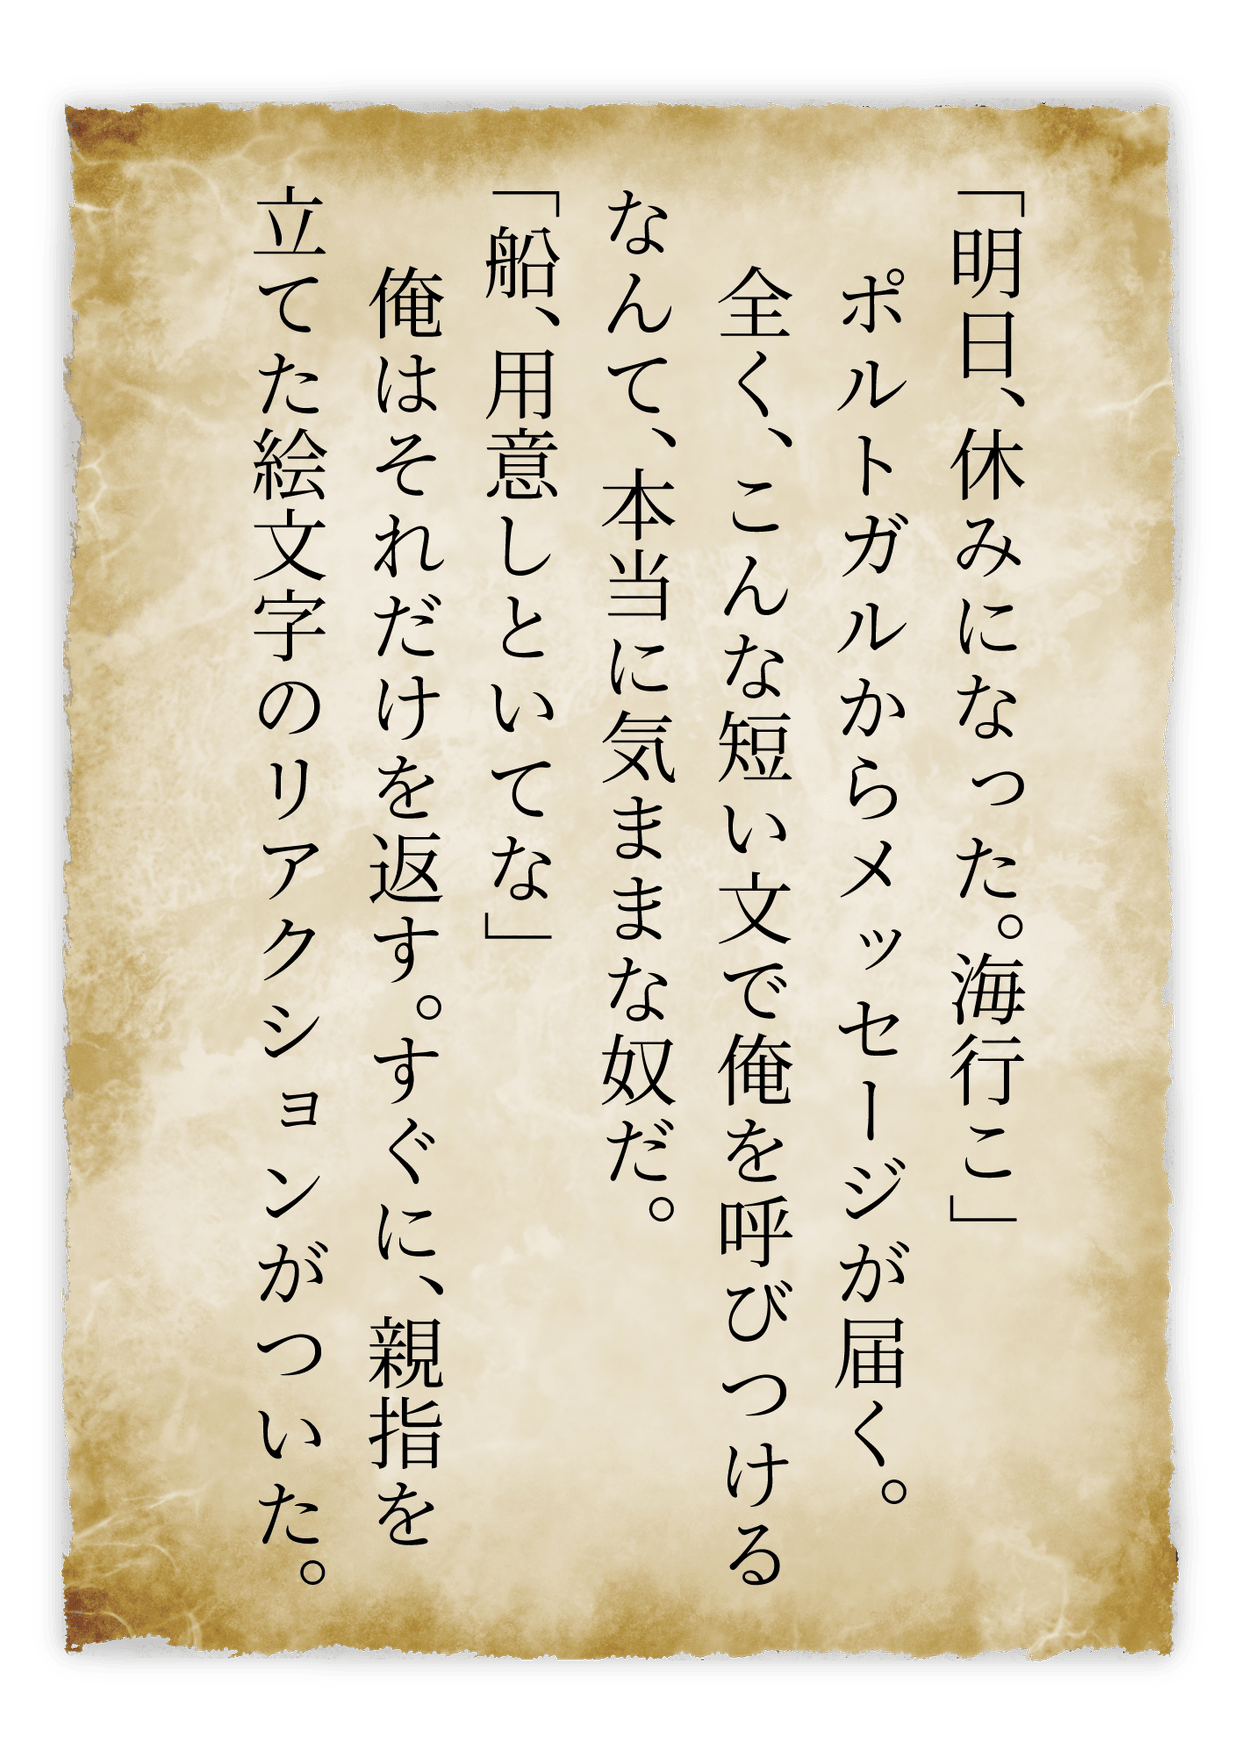
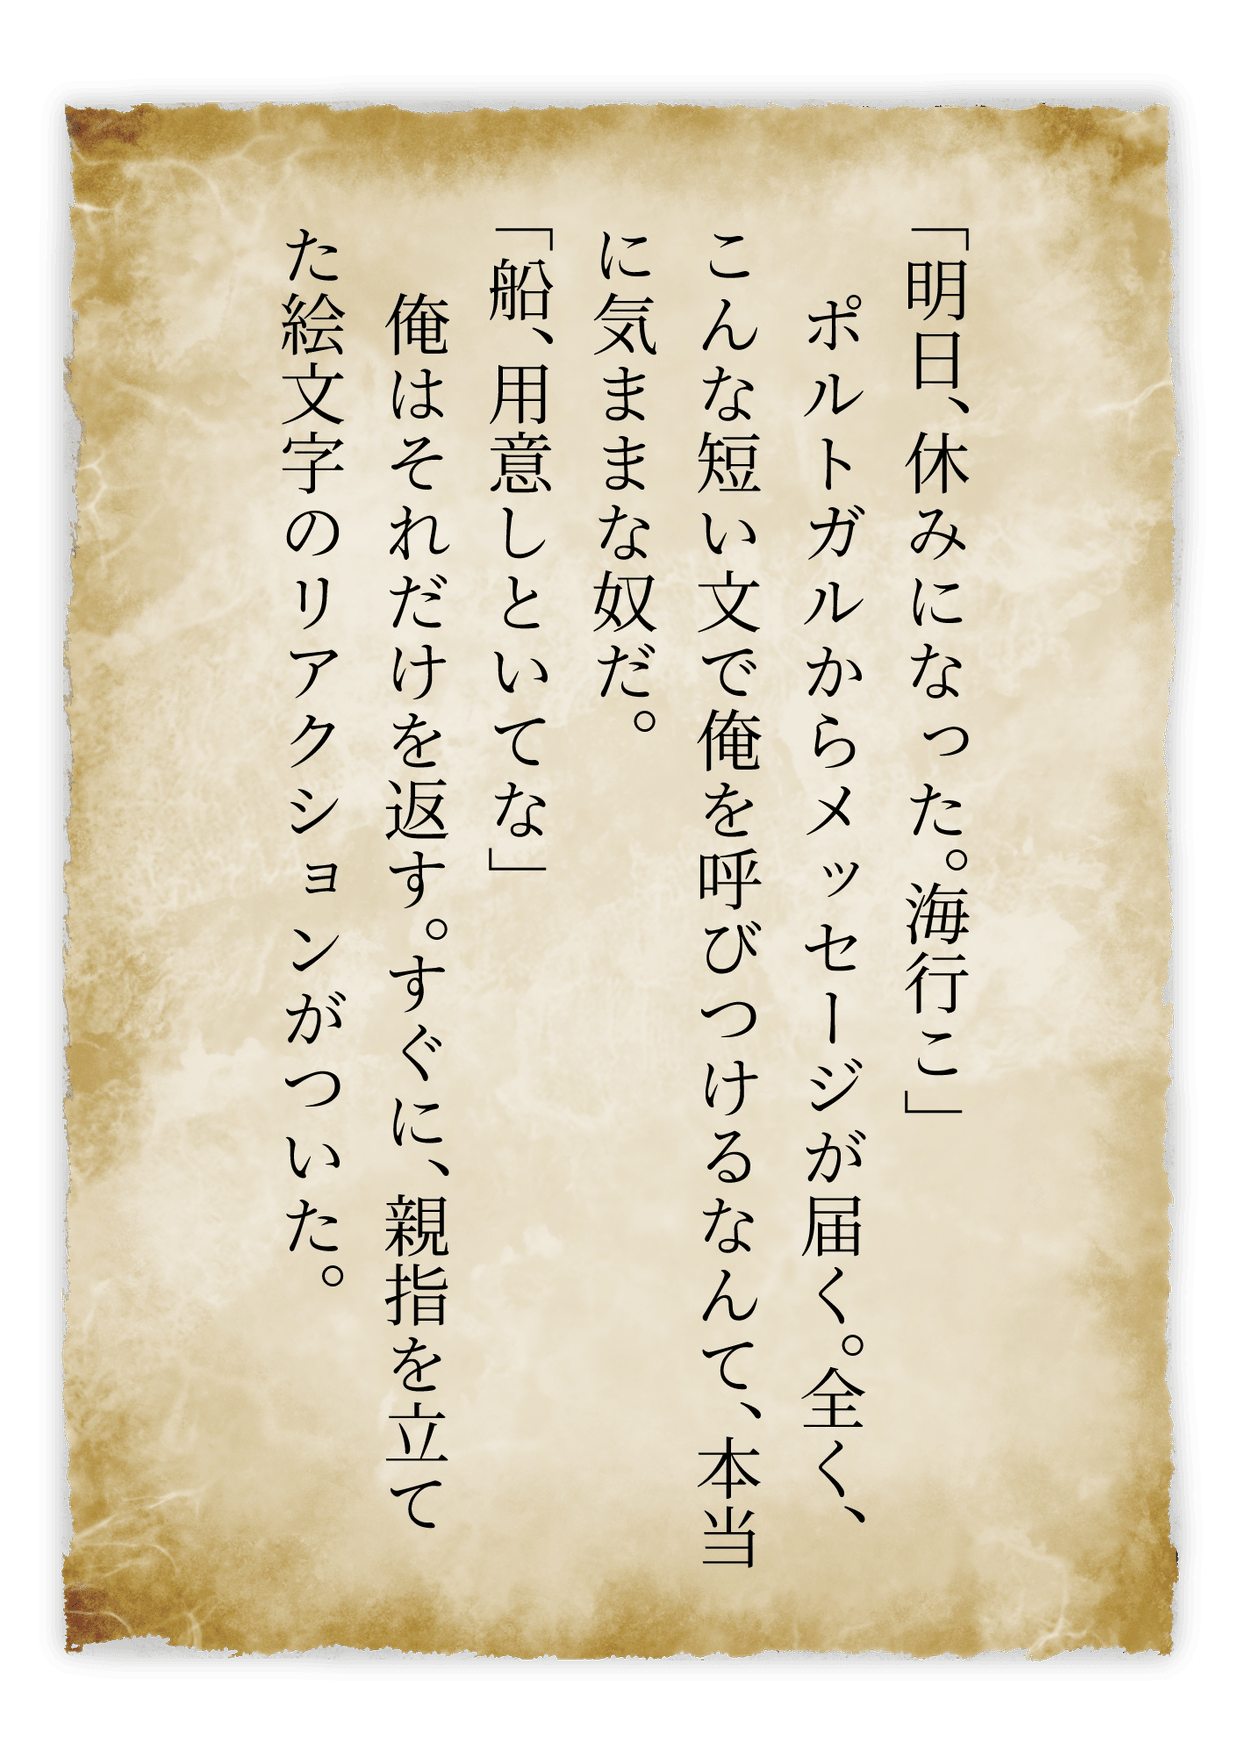
作者名バッジ: 作品と非重複化・2px拡大／005画像を再圧縮
- buildCreditedTexture: バッジ用に画像の下へ専用の帯(元画像高さの
  8%)を追加し、そこにバッジを配置するよう変更。以前は画像の最下部に
  重ねて描いていたため、004のようにコマ内セリフと被ることがあった。
  透過が必要なイラスト(001/002/005)は帯を透明のまま、不要なもの
  (003/004)は画像自身の下端の平均色を帯に延長してシームレスに。
- 合わせてキャラクターの静止位置(restY)とプレーン高さを、新しい
  帯ぶんを考慮して再計算。マーカーへの接地位置(足元)は従来どおり
  正確に保たれる。
- 文字サイズを +2px(「2pt」)。
- assets/005.png が差し替えられていたため、同じサイズ(1240px幅)・
  パレットPNGで再圧縮(2.9MB→約770KB、見た目の劣化なし)。

diff --git a/index.html b/index.html
@@ -686,20 +686,47 @@
     return { url: canvas.toDataURL("image/png"), aspect: W / H };
   }
 
-  // ---------- 1c. bake a small "illustration by <name>" credit badge onto
-  // the bottom-centre of the image, so it travels with the same texture and
-  // fades in together with the picture via the usual reveal. `opaque` skips
-  // the alpha channel (smaller/faster) for illustrations that don't need it.
+  // ---------- 1c. bake a small "illustration by <name>" credit badge below
+  // the image, so it travels with the same texture and fades in together
+  // with the picture via the usual reveal. The canvas is made a little
+  // taller than the source image and the badge sits in that new strip, so
+  // it never overlaps the artwork itself. `opaque` skips the alpha channel
+  // (smaller/faster) for illustrations that don't need it.
+  const CREDIT_MARGIN = 0.08; // extra height under the artwork, as a fraction of it
+
   function buildCreditedTexture(imgEl, name, opaque) {
     const W = imgEl.naturalWidth;
     const H = imgEl.naturalHeight;
+    const marginPx = Math.round(H * CREDIT_MARGIN);
+    const totalH = H + marginPx;
+
     const canvas = document.createElement("canvas");
     canvas.width = W;
-    canvas.height = H;
+    canvas.height = totalH;
     const ctx = canvas.getContext("2d");
     ctx.drawImage(imgEl, 0, 0, W, H);
 
-    const fontPx = Math.round(W * 0.026);
+    if (opaque) {
+      // no alpha channel to fall back on, so extend the image's own
+      // bottom-edge colour into the new strip instead of leaving it black
+      let fill = "#20140a";
+      try {
+        const row = ctx.getImageData(0, H - 1, W, 1).data;
+        let r = 0, g = 0, b = 0, n = 0;
+        const step = Math.max(1, Math.floor(W / 64));
+        for (let x = 0; x < W; x += step) {
+          const i = x * 4;
+          r += row[i]; g += row[i + 1]; b += row[i + 2]; n++;
+        }
+        if (n) fill = `rgb(${Math.round(r / n)}, ${Math.round(g / n)}, ${Math.round(b / n)})`;
+      } catch (e) {}
+      ctx.fillStyle = fill;
+      ctx.fillRect(0, H, W, marginPx);
+    }
+    // (alpha textures leave the new strip transparent, same as the rest of
+    // the app's floating UI)
+
+    const fontPx = Math.round(W * 0.026) + 2;
     ctx.font = `${fontPx}px ${BUBBLE_FONT}`;
     const label = String(name);
     const padX = fontPx * 0.85;
@@ -707,7 +734,7 @@
     const boxW = ctx.measureText(label).width + padX * 2;
     const boxH = fontPx + padY * 2;
     const boxX = (W - boxW) / 2;
-    const boxY = H - boxH - H * 0.035;
+    const boxY = H + (marginPx - boxH) / 2; // centred in the new strip
 
     function roundRectPath(x, y, ww, hh, r) {
       ctx.beginPath();
@@ -719,7 +746,7 @@
       ctx.closePath();
     }
 
-    ctx.fillStyle = "rgba(20, 14, 10, 0.55)";
+    ctx.fillStyle = "rgba(20, 14, 10, 0.6)";
     roundRectPath(boxX, boxY, boxW, boxH, boxH / 2);
     ctx.fill();
 
@@ -728,9 +755,10 @@
     ctx.textBaseline = "middle";
     ctx.fillText(label, W / 2, boxY + boxH / 2 + fontPx * 0.03);
 
-    return opaque
-      ? canvas.toDataURL("image/jpeg", 0.9)
-      : canvas.toDataURL("image/png");
+    return {
+      url: opaque ? canvas.toDataURL("image/jpeg", 0.9) : canvas.toDataURL("image/png"),
+      marginFrac: marginPx / H,
+    };
   }
 
   // ---------- 2. animation helper (ease-out-back "pop") ----------
@@ -864,17 +892,21 @@
   }
 
   function applyVariant(v) {
-    restY = v.h / 2;
-    charEntity.setAttribute("width", v.w || 1);
-    charEntity.setAttribute("height", v.h);
-
     // the credited texture only depends on this variant's own (fixed) image
     // and name, so it's built once and cached on the variant itself
-    if (!v._creditedSrc) {
+    if (!v._credited) {
       const imgEl = document.querySelector(v.img);
-      v._creditedSrc = buildCreditedTexture(imgEl, v.author, !v.alpha);
+      v._credited = buildCreditedTexture(imgEl, v.author, !v.alpha);
     }
-    charEntity.setAttribute("src", v._creditedSrc);
+    const m = v._credited.marginFrac;
+    // the plane is taller than the artwork alone (room for the credit strip
+    // below it), so the resting position is shifted up by half that extra
+    // height -- this keeps the artwork's own bottom edge (not the strip's)
+    // sitting on the marker.
+    restY = v.h * (0.5 - m / 2);
+    charEntity.setAttribute("width", v.w || 1);
+    charEntity.setAttribute("height", v.h * (1 + m));
+    charEntity.setAttribute("src", v._credited.url);
 
     if (v.text) applyBubble(v.text);
     else {
